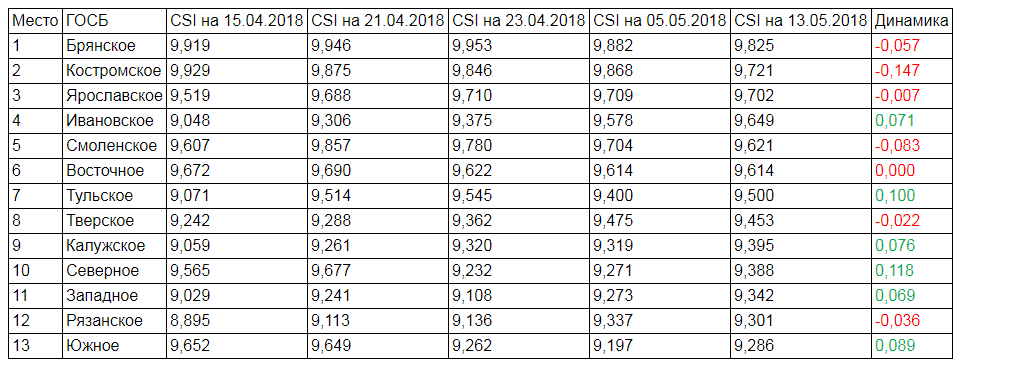
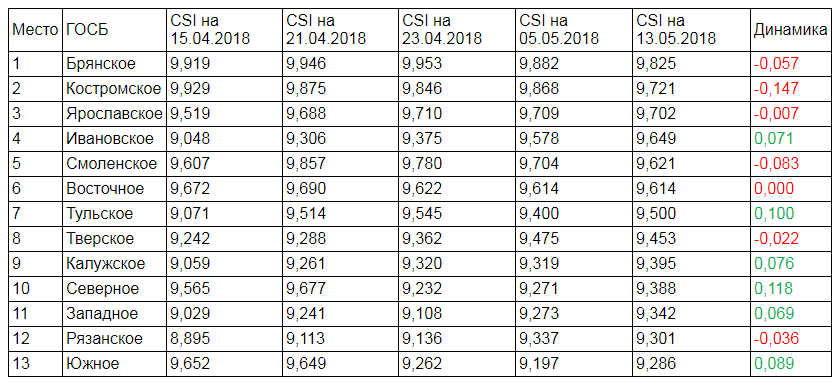
grabzit prof 840

diff --git a/module/func.js b/module/func.js
@@ -5,10 +5,10 @@ var util = require('util');
 var grabzit = require('grabzit');
 
 var optionsImg = {
-    "browserWidth":1024, 
+    "browserWidth":840, 
     "browserHeight":-1,
-    "width":-1, 
-    "height":-1,
+    /*"width":-1, 
+    "height":-1,*/
     "format":"png"
 };
 
@@ -18,7 +18,7 @@ module.exports = {
             var client = new grabzit("MDRmZTMyYWQyMzAwNDA1NDkwZjA3MTc1ZjA5OGE1ODA=", "Pwk/P3U/cz8/Pz8pPz94PxYYUD9sPwg8Pz8/VF9ufz8=");
             var pathImg = "img/result1.png";
 
-            client.html_to_image('<html><style>body {font-family: arial;}table {border-collapse: collapse; background-color: #fff;} td {border: 1px solid #000;padding: 3px}</style><body>'+html+'</body></html>',optionsImg); 
+            client.html_to_image('<html><style>body {font-family: arial;}table {border-collapse: collapse;} td {border: 1px solid #000;padding: 3px}</style><body>'+html+'</body></html>',optionsImg); 
 
             client.save_to(pathImg, function (error, id){
                 console.log('id '+id+' error '+error );
